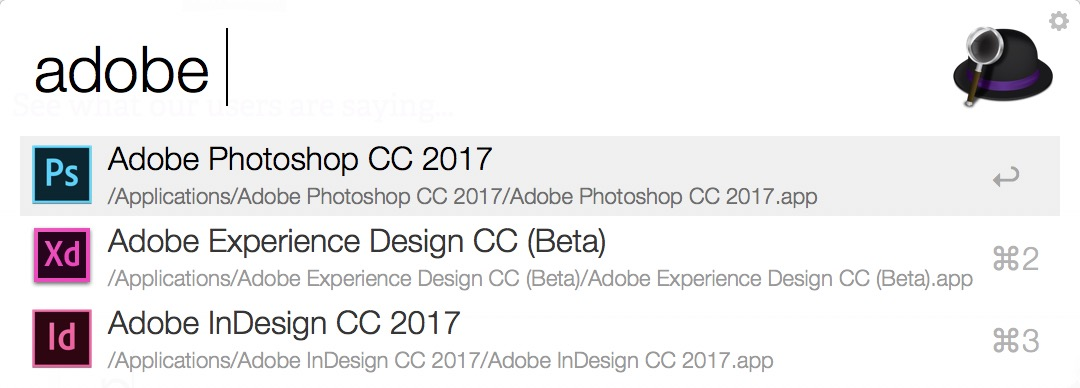
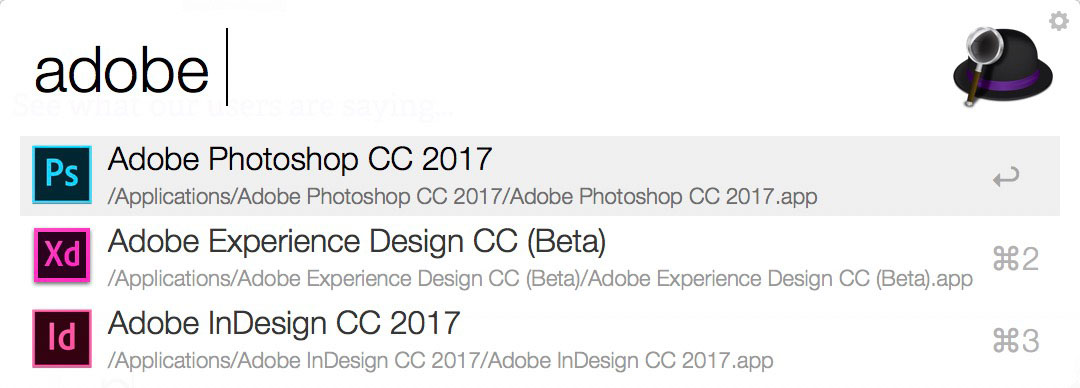
optimize images, add links

Changed region(s): [[0.0306, 0.5876, 0.0917, 0.7423], [0.0306, 0.3711, 0.0917, 0.5258], [0.0306, 0.7732, 0.0917, 0.8041]]

diff --git a/content/2017/02/14/tips-and-tools-we-love.rst b/content/2017/02/14/tips-and-tools-we-love.rst
@@ -40,6 +40,7 @@ enhanced view after enabling this extension.
 
 .. image:: /static/images/blog/2017/tips-tools/before-after-json-viewer.jpg
    :alt: clean and messy json screenshots
+   :class: img-border
 
 .. _David Glick: /birds/#bird-david
 .. _JSON Viewer: https://chrome.google.com/webstore/detail/json-viewer/gbmdgpbipfallnflgajpaliibnhdgobh
@@ -57,10 +58,13 @@ Surround.vim
 into text objects, so he can select “everything inside these curly braces”
 with a single vim motion.
 
+You can also get versions of this plugin for `Atom`_ and `Sublime Text`_.
+
 .. _Kit La Touche: /birds/#bird-kit
 .. _Surround.vim: https://github.com/tpope/vim-surround
 .. _Tim Pope: https://twitter.com/tpope
-
+.. _Atom: https://atom.io/packages/vim-surround
+.. _Sublime Text: https://github.com/jcartledge/sublime-surround
 
 Alfred
 ~~~~~~
